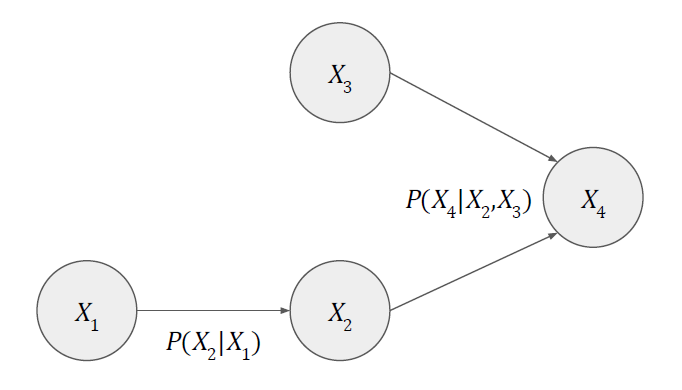
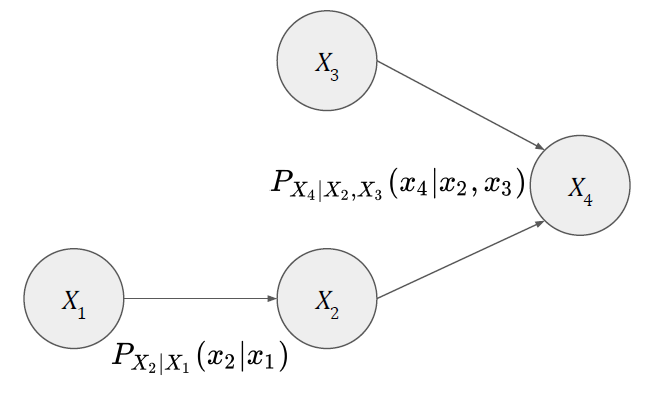
modified a post and about.md.

diff --git a/_posts/2020-01-26-graphical-model-01.md b/_posts/2020-01-26-graphical-model-01.md
@@ -48,10 +48,10 @@ permalink: /2020-01-26-graphical-model-01
 우리는 이 세 가지 랜덤 변수를 바탕으로 네 번째 랜덤 변수 $$X_4$$ (지각을 하였는가? Yes/No)에 대한 주변 분포를 추론하고자 한다.
 
 $$
-P(X_4) = \sum_{X_1, X_2, X_3} P(X_1, X_2, X_3, X_4)
+P_{X_4}(x_4) = \sum_{x_1, x_2, x_3} P_{X_1, X_2, X_3, X_4}(x_1, x_2, x_3, x_4)
 $$
 
-이러한 주변화 계산을 위해서는 결합 분포 $$P(X_1, X_2, X_3, X_4)$$에 대한 추론이 선행되어야 할 것이다. 이를 위해서는 각각의 랜덤 변수에 대한 가정이 필요하다. 베이지안 관점에서 나의 가정들은 아래와 같다:
+이러한 주변화 계산을 위해서는 결합 분포 $$P_{X_1, X_2, X_3, X_4}$$에 대한 추론이 선행되어야 할 것이다. 이를 위해서는 각각의 랜덤 변수에 대한 가정이 필요하다. 베이지안 관점에서 나의 가정들은 아래와 같다:
 - 알람과 1호선은 서로 독립적인 사건:
     - 알람이 제대로 울릴 것인가에 대한 나의 믿음: 0.9
     - 1호선이 제때 올 것인가에 대한 나의 믿음: 0.2
@@ -67,25 +67,50 @@ $$
 
 이러한 가정들을 바탕으로 다음과 같은 베이지안 네트워크를 그릴 수 있다.
 
-![](/assets/img/2020-01-26-graphical-model-01/2020-01-26-graphical-model-01_2020-01-26-09-12-52.png)
+![](/assets/img/2020-01-26-graphical-model-01/2020-01-26-graphical-model-01_2020-01-26-08-38-02.png)
 
 또한 가정을 바탕으로 엣지 값인 조건부 확률 분포들을 아래와 같이 정의할 수 있다.
 
 $$
-P(X_1) = \left\{ \begin{array}{ll} 0.9 & \text{if} \ X_3=1, \\ 0.1 & \text{otherwise}. \end{array} \right.
+P_{X_1}(x_1) = \left\{
+\begin{array}{ll}
+0.9 & \text{if} \ x_1=1, \\
+0.1 & \text{otherwise}.
+\end{array}
+\right.
 $$
 
 $$
-P(X_2|X_1) = \left\{ \begin{array}{ll} 0.3 & \text{if} \ X_1=0, X_2=0, \\ 0.7 & \text{if} \ X_1=0, X_2=1, \\ 0.9 & \text{if} \ X_1=1, X_2=0, \\ 0.1 & \text{if} \ X_1=1, X_2=1. \end{array} \right.
+P_{X_2|X_1}(x_2|x_1) = \left\{
+\begin{array}{ll}
+0.3 & \text{if} \ x_1=0, x_2=0, \\
+0.7 & \text{if} \ x_1=0, x_2=1, \\
+0.9 & \text{if} \ x_1=1, x_2=0, \\
+0.1 & \text{if} \ x_1=1, x_2=1.
+\end{array} \right.
 $$
 
 $$
-P(X_3) = \left\{ \begin{array}{ll} 0.2 & \text{if} \ X_3=1, \\ 0.8 & \text{otherwise}. \end{array} \right.
+P_{X_3}(x_3) = \left\{
+\begin{array}{ll}
+0.2 & \text{if} \ x_3=1, \\
+0.8 & \text{otherwise}.
+\end{array} \right.
 $$
 
 $$
-P(X_4|X_2,X_3) = \left\{ \begin{array}{ll}
-0.3 & \text{if} \ X_2=0, X_3=0, X_4=0, \\  0.7 & \text{if} \ X_2=0, X_3=0, X_4=1, \\  0.8 & \text{if} \ X_2=0, X_3=1, X_4=0, \\ 0.2 & \text{if} \ X_2=0, X_3=1, X_4=1, \\  0.1 & \text{if} \ X_2=1, X_3=0, X_4=0, \\  0.9 & \text{if} \ X_2=1, X_3=0, X_4=1, \\  0.2 & \text{if} \ X_2=1, X_3=1, X_4=0, \\ 0.8 & \text{if} \ X_2=1, X_3=1, X_4=1. \\  \end{array} \right.
+P_{X_4|X_2,X_3}(x_4|x_2,x_3) =
+\left\{
+\begin{array}{ll}
+0.3 & \text{if} \ x_2=0, x_3=0, x_4=0, \\ 
+0.7 & \text{if} \ x_2=0, x_3=0, x_4=1, \\ 
+0.8 & \text{if} \ x_2=0, x_3=1, x_4=0, \\
+0.2 & \text{if} \ x_2=0, x_3=1, x_4=1, \\ 
+0.1 & \text{if} \ x_2=1, x_3=0, x_4=0, \\ 
+0.9 & \text{if} \ x_2=1, x_3=0, x_4=1, \\ 
+0.2 & \text{if} \ x_2=1, x_3=1, x_4=0, \\
+0.8 & \text{if} \ x_2=1, x_3=1, x_4=1. \\
+\end{array} \right.
 $$
 
 ## Factorization
@@ -93,62 +118,62 @@ $$
 
 $$
 \begin{array}{rl}
-P(X_1, X_2, X_3, X_4)
-& = P(X_4|X_1, X_2, X_3)\cdot P(X_1, X_2, X_3) \\
-& = P(X_4|X_1, X_2, X_3)\cdot P(X_3 | X_1, X_2) \cdot P(X_1, X_2) \\
-& = P(X_4|X_1, X_2, X_3)\cdot P(X_3 | X_1, X_2) \cdot P(X_2 | X_1) \cdot P(X_1) \\
-& = P(X_4 | X_2, X_3) \cdot P(X_3) \cdot P(X_2 | X_1) \cdot P(X_1)
+P_{X_1, X_2, X_3, X_4}(x_1, x_2, x_3, x_4)
+& = P_{X_4|X_1, X_2, X_3}(x_4|x_1, x_2, x_3)\cdot P_{X_1, X_2, X_3}(x_1, x_2, x_3) \\
+& = P_{X_4|X_1, X_2, X_3}(x_4|x_1, x_2, x_3)\cdot P_{X_3|X_1, X_2}(x_3|x_1, x_2) \cdot P_{X_1, X_2}(x_1, x_2) \\
+& = P_{X_4|X_1, X_2, X_3}(x_4|x_1, x_2, x_3)\cdot P_{X_3|X_1, X_2}(x_3|x_1, x_2) \cdot P_{X_2|X_1}(x_2|x_1) \cdot P_{X_1}(x_1) \\
+& = P_{X_4|X_2, X_3}(x_4|x_2, x_3) \cdot P_{X_3}(x_3) \cdot P_{X_2|X_1}(x_2|x_1) \cdot P_{X_1}(x_1)
 \end{array}
 $$
 
 특히 여기서 마지막 두 줄은 베이지안 네트워크를 다룰때 활용되는 중요한 가정인 로컬 마르코프 가정 (Local Markov Assumption)을 사용하는 부분이다. 이것은 잠시 후에 다뤄볼 것이다.
 
 $$
-P(X_4|X_1, X_2, X_3)\cdot P(X_3 | X_1, X_2) \cdot P(X_2 | X_1) \cdot P(X_1) = P(X_4 | X_2, X_3) \cdot P(X_3) \cdot P(X_2 | X_1) \cdot P(X_1)
+P_{X_4|X_1, X_2, X_3}(x_4|x_1, x_2, x_3)\cdot P_{X_3|X_1, X_2}(x_3|x_1, x_2) \cdot P_{X_2|X_1}(x_2|x_1) \cdot P_{X_1}(x_1) = P_{X_4|X_2, X_3}(x_4|x_2, x_3) \cdot P_{X_3}(x_3) \cdot P_{X_2|X_1}(x_2|x_1) \cdot P_{X_1}(x_1)
 $$
 
 어쨌든 최종적으로 구한 결합 분포는 아래와 같다.
 
 $$
-P(X_1, X_2, X_3, X_4) = P(X_4 | X_2, X_3) \cdot P(X_3) \cdot P(X_2 | X_1) \cdot P(X_1)
+P_{X_4|X_2, X_3}(x_4|x_2, x_3) \cdot P_{X_3}(x_3) \cdot P_{X_2|X_1}(x_2|x_1) \cdot P_{X_1}(x_1)
 $$
 
 이런 방식으로 결합 분포를 각 랜덤 변수에 대한 조건부분포들에 대한 곱으로 써놓는 것을 분해(Factorization)라고 정의한다. 이것을 베이지안 네트워크의 관점에서 다시 정의하면 다음과 같다:
 
 $$
-P(X_1, \cdots, X_n) = \prod_{i=1}^n P(X_i | \mathbf{Pa}(X_i))
+P_{X_1, \cdots, X_n} = \prod_{i=1}^n P_{X_i|\mathbf{Pa}(X_i)}
 $$
 
-$$X_1$$과 $$X_3$$은 부모 노드가 없기 때문에 단독으로 분포를 쓸 수 있고 ($$P(X_1), P(X_3)$$), $$X_2$$의 부모 노드는 $$X_1$$, $$X_4$$의 부모 노드는 $$X_2, X_3$$이므로 $$P(X_2 \vert X_1)$$, $$P(X_4 \vert X_2, X_3)$$로 쓴 것을 확인할 수 있다.
+$$X_1$$과 $$X_3$$은 부모 노드가 없기 때문에 단독으로 분포를 쓸 수 있고 ($$P_{X_1}, P_{X_3}$$), $$X_2$$의 부모 노드는 $$X_1$$, $$X_4$$의 부모 노드는 $$X_2, X_3$$이므로 $$P_{X_2 \vert X_1}$$, $$P_{X_4 \vert X_2, X_3}$$로 쓴 것을 확인할 수 있다.
 
 최종적으로 위의 결과들을 바탕으로 주변 분포를 추론해보도록 하자.
 
 $$
 \begin{array}{ll}
-P(X_4)
-& = \sum_{X_1, X_2, X_3} P(X_1, X_2, X_3, X_4) \\
-& = \sum_{X_3} \sum_{X_2} P(X_4 | X_2, X_3) \cdot P(X_3) \sum_{X_1} P(X_2 | X_1) \cdot P(X_1) \\
-& = \sum_{X_3} \sum_{X_2} P(X_4 | X_2, X_3) \cdot P(X_3) \cdot \left[0.9 \cdot P(X_2 | X_1=1) + 0.1 \cdot P(X_2 | X_1=0) \right] \\
-& = 0.9 \cdot \left[ 0.2 \cdot 0.1 \cdot P(X_4 | X_2=1, X_3=1) + 0.8 \cdot 0.1 \cdot P(X_4 | X_2=1, X_3=0) \right. \\
-& \ \ \ \ \ \ \ \ \ \ \ \ + \left. 0.2 \cdot 0.9 \cdot P(X_4 | X_2=0, X_3=1) + 0.8 \cdot 0.9 \cdot P(X_4 | X_2=0, X_3=0) \right] \\
+P_{X_4}(x_4)
+& = \sum_{x_1, x_2, x_3} P_{X_1, X_2, X_3, X_4}(x_1, x_2, x_3, x_4) \\
+& = \sum_{x_3} \sum_{x_2} P_{X_4|X_2, X_3}(x_4|x_2, x_3) \cdot P_{X_3}(x_3) \sum_{x_1} P_{X_2|X_1}(x_2|x_1) \cdot P_{X_1}(x_1) \\
+& = \sum_{x_3} \sum_{x_2} P_{X_4|X_2, X_3}(x_4|x_2, x_3) \cdot P_{X_3}(x_3) \cdot \left[0.9 \cdot P_{X_2|X_1=1}(x_2) + 0.1 \cdot P_{X_2|X_1=0)(x_2) \right] \\
+& = 0.9 \cdot \left[ 0.2 \cdot 0.1 \cdot P_{X_4|X_2=1, X_3=1}(x_4) + 0.8 \cdot 0.1 \cdot P_{X_4|X_2=1, X_3=0}(x_4) \right. \\
+& \ \ \ \ \ \ \ \ \ \ \ \ + \left. 0.2 \cdot 0.9 \cdot P_{X_4|X_2=0, X_3=1}(x_4) + 0.8 \cdot 0.9 \cdot P_{X_4|X_2=0, X_3=0}(x_4) \right] \\
 
-& \ \ \ \ + 0.1 \cdot \left[ 0.2 \cdot 0.7 \cdot P(X_4 | X_2=1, X_3=1) + 0.8 \cdot 0.7 \cdot P(X_4 | X_2=1, X_3=0) \right. \\
-&  \ \ \ \ \ \ \ \ \ \ \ \ \ \ \ \ + \left. 0.2 \cdot 0.3 \cdot P(X_4 | X_2=0, X_3=1) + 0.8 \cdot 0.3 \cdot P(X_4 | X_2=0, X_3=0) \right] \\
+& \ \ \ \ + 0.1 \cdot \left[ 0.2 \cdot 0.7 \cdot P_{X_4|X_2=1, X_3=1}(x_4) + 0.8 \cdot 0.7 \cdot P_{X_4|X_2=1, X_3=0}(x_4) \right. \\
+&  \ \ \ \ \ \ \ \ \ \ \ \ \ \ \ \ + \left. 0.2 \cdot 0.3 \cdot P_{X_4|X_2=0, X_3=1}(x_4) + 0.8 \cdot 0.3 \cdot P_{X_4|X_2=0, X_3=0}(x_4) \right] \\
 
-& = 0.032 \cdot P(X_4 | X_2=1, X_3=1) +
-0.128 \cdot P(X_4 | X_2=1, X_3=0) \\
-& \ \ \ \ + 0.168 \cdot P(X_4 | X_2=0, X_3=1) + 
-0.672 \cdot P(X_4 | X_2=0, X_3=0)
+& = 0.032 \cdot P_{X_4|X_2=1, X_3=1}(x_4) +
+0.128 \cdot P_{X_4|X_2=1, X_3=0}(x_4) \\
+& \ \ \ \ + 0.168 \cdot P_{X_4|X_2=0, X_3=1}(x_4) + 
+0.672 \cdot P_{X_4|X_2=0, X_3=0}(x_4)
 \end{array}
 $$
 
 따라서 최종적인 주변 분포는:
 
 $$
-P(X_4) = \left\{
+P_{X_4}(x_4) = \left\{
 \begin{array}{ll}
 0.032 \cdot 0.8 + 0.128 \cdot 0.9 + 0.168 \cdot 0.2 + 0.672 \cdot 0.7 = 0.6448 
-& \text{if} \ X_4=1, \\
+& \text{if} \ x_4=1, \\
 0.032 \cdot 0.2 + 0.128 \cdot 0.1 + 0.168 \cdot  0.8 + 0.672 \cdot 0.3 = 0.3552
 & \text{otherwise}.
 \end{array}
@@ -168,10 +193,10 @@ $$(X_i \perp \mathbf{NonDescendants}(X_i) | \mathbf{Pa}(X_i))$$
 
 이러한 로컬 마르코프 가정과 관련된 중요한 정리가 있다. 증명은 여기에 따로 소개하지는 않겠다.
 
-- $$G$$가 랜덤 변수들의 집합 $$\{X_i \}_{i=1}^n$$에 대한 베이지안 네트워크 그래프이고, $$P$$가 그 랜덤 변수들에 대한 결합 분포이다. 이 경우 $$G$$에 대한 모든 로컬 마르코프 가정이 만족한다면 $$P$$는 $$G$$에 대해서 분해가 될 수 있다.
+- $$G$$가 랜덤 변수들의 집합 $$\{X_i \}_{i=1}^n$$에 대한 베이지안 네트워크 그래프이고, $$P_{X_1, \cdots, X_n}$$가 그 랜덤 변수들에 대한 결합 분포이다. 이 경우 $$G$$에 대한 모든 로컬 마르코프 가정이 만족한다면 $$P_{X_1, \cdots, X_n}$$는 $$G$$에 대해서 분해가 될 수 있다.
 - 또한 이 명제는 역이 성립한다.
 
-이 정리가 하고자하는 말은 제이지안 네트워크와 그에 대한 분해 결과는 서로 동치라는 점이다.
+이 정리가 하고자하는 말은 로컬 마르코프 가정을 만족하는 경우에는 베이지안 네트워크와 그에 대한 분해 결과는 서로 동치라는 점이다.
 
 ![](/assets/img/2020-01-26-graphical-model-01/2020-01-26-graphical-model-01_2020-01-26-09-49-44.png)
 

diff --git a/about.md b/about.md
@@ -8,7 +8,7 @@ permalink: /about
 ## About Me
 머신러닝 과학자를 지향하는 머신러닝 엔지니어입니다 :)
 
-통계 관련 이론에 환장하는 편이며 수학, 물리학, 그리고 코딩을 취미로 즐기고 있습니다.
+통계 관련 이론에 환장하는 편이며, 수학, 물리학, 그리고 코딩을 취미로 즐기고 있습니다.
 
 ## Employment and Career
 - Before)
